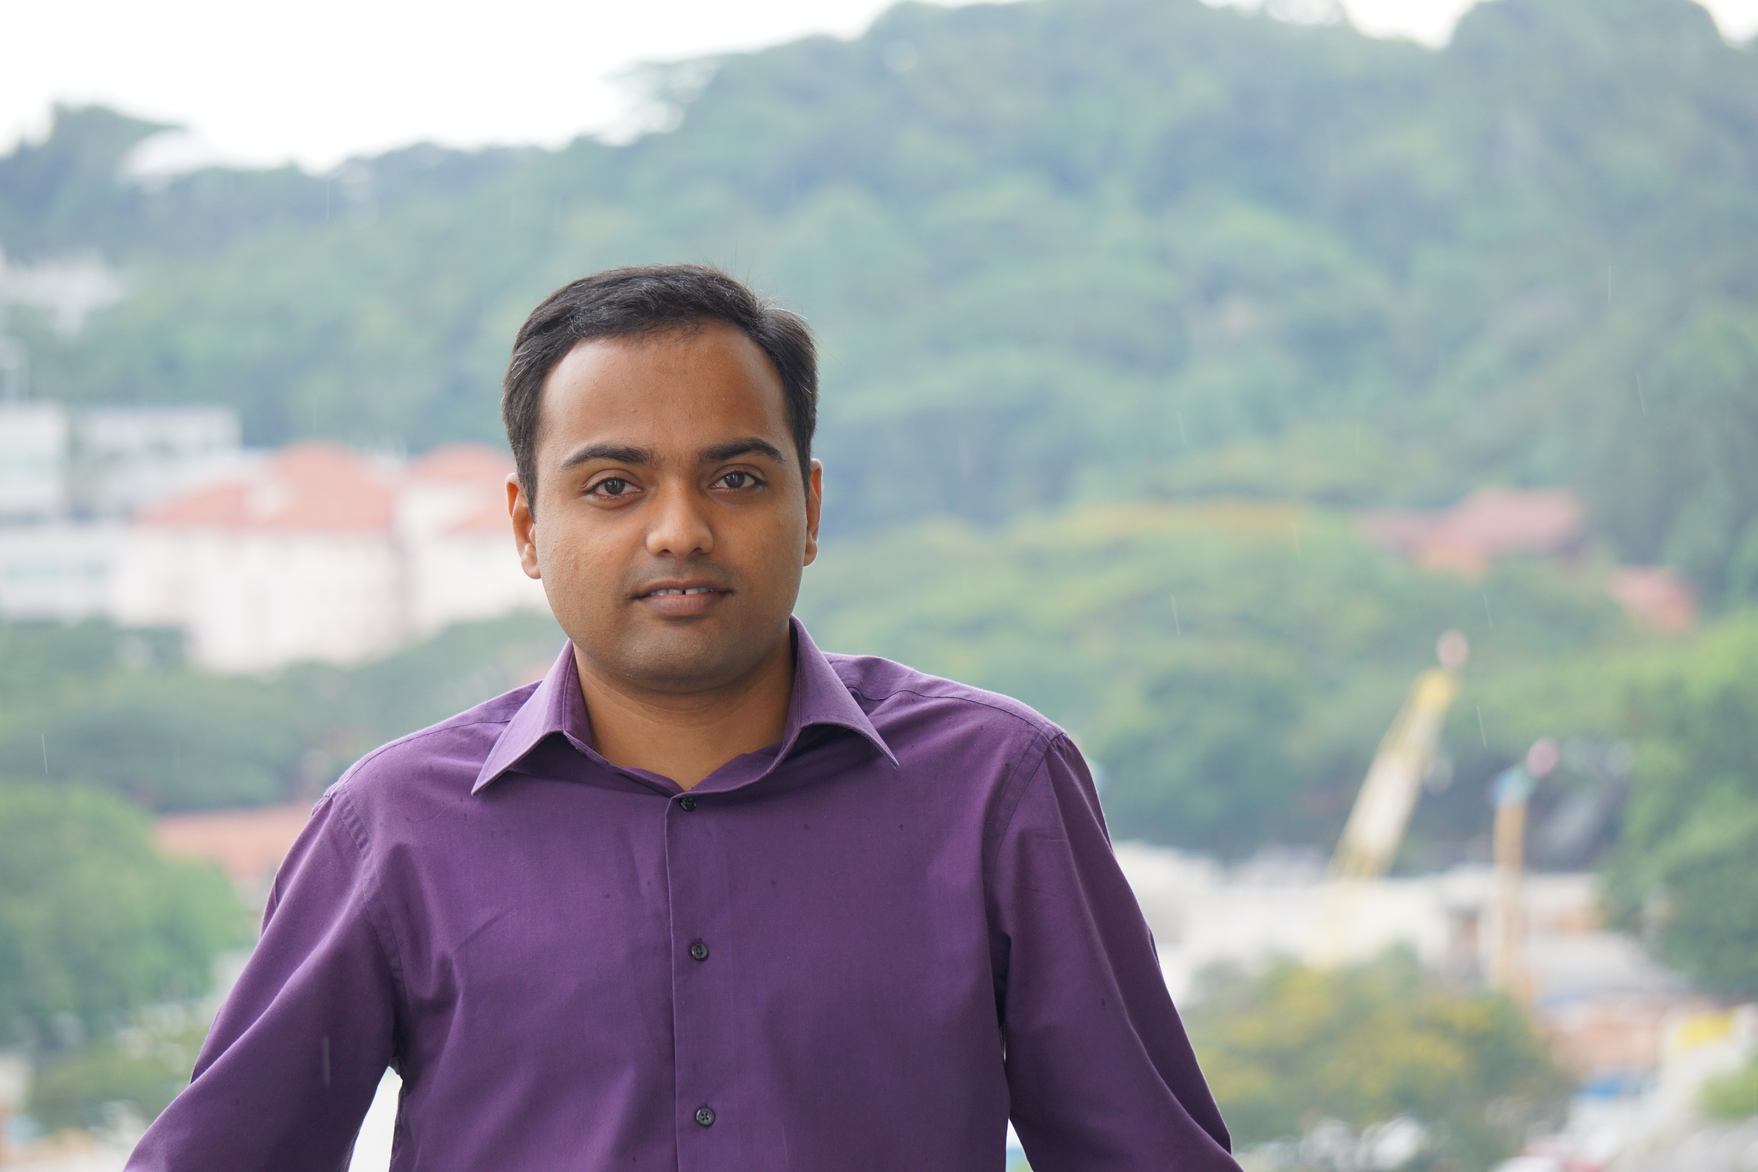
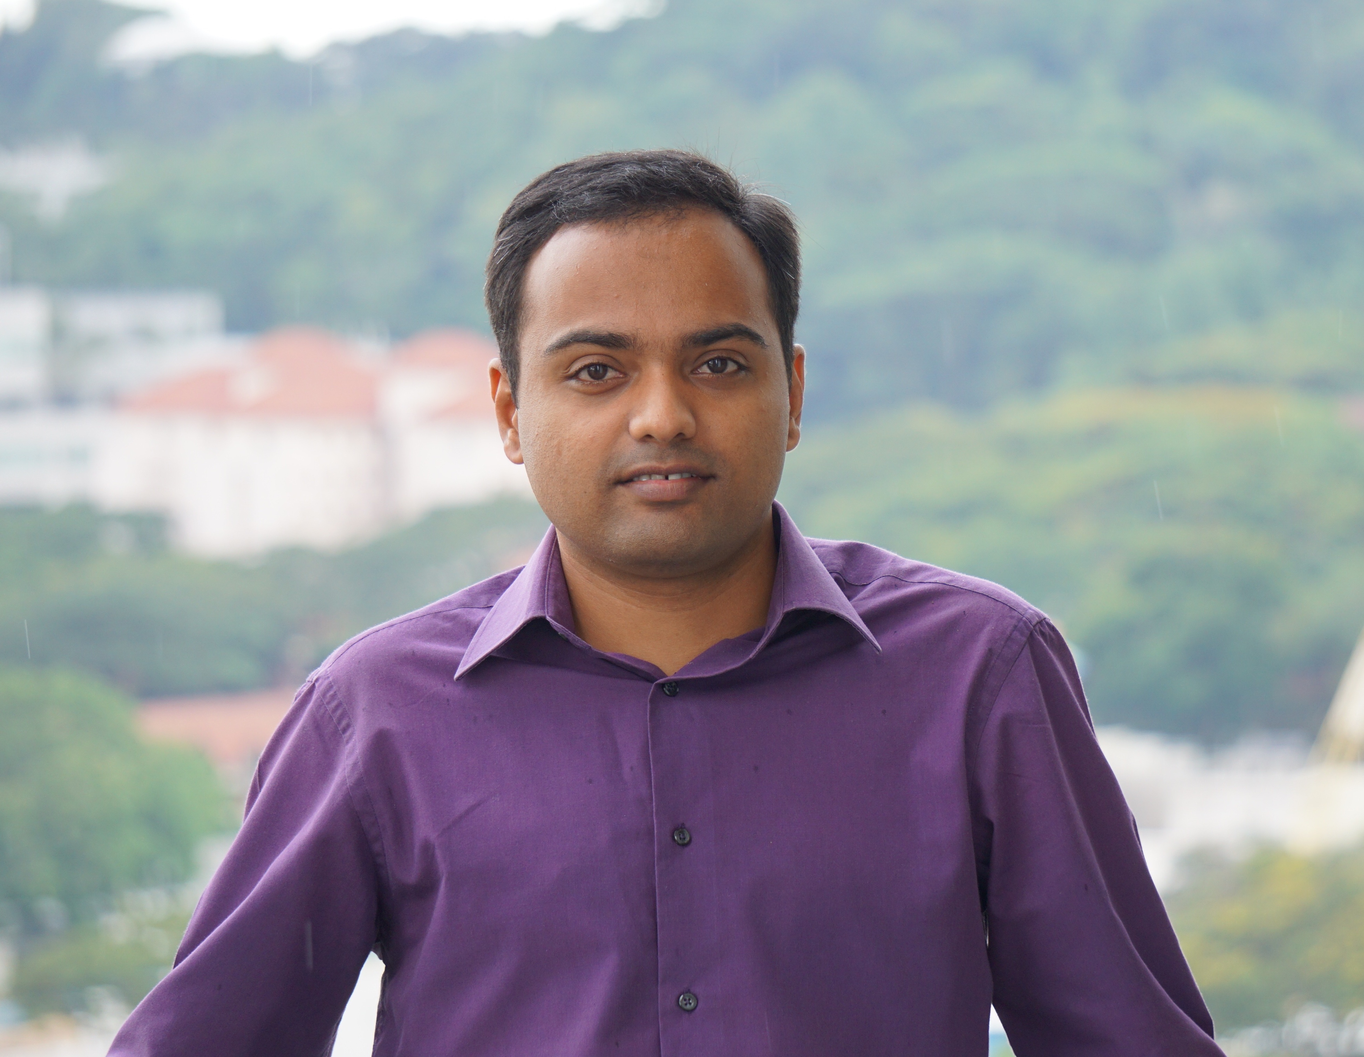
Updated exec page with Joanna and Ajinkya's info
Changed placement of photos

diff --git a/output/executive/index.html b/output/executive/index.html
@@ -12,13 +12,13 @@
 <link rel="canonical" href="/executive">
 
         <meta name="author" content="MIT Transportation Club" />
-        <meta name="description" content="President: Joanna Moody Joanna Moody &lt;jcmoody at mit dot edu&gt; is a fourth year Ph.D. candidate in the Interdisciplinary Program in Transportation. As a member of the JTL Urban Mobility Lab, Joanna explores how implicit or subconscious biases and preferences related to car usage and ownership can influence travel …" />
+        <meta name="description" content="President: Joanna Moody Joanna Moody &lt;jcmoody at mit dot edu&gt; is a fourth year Ph.D. candidate in the Interdisciplinary Program in Transportation. As a member of the JTL Urban Mobility Lab, Joanna explores how to better measure people’s explicit and implicit (or subconscious) preferences and attitudes towards certain …" />
 
     <meta property="og:site_name" content="MIT Transportation Club" />
     <meta property="og:type" content="article"/>
     <meta property="og:title" content="Executive Board"/>
     <meta property="og:url" content="/executive"/>
-    <meta property="og:description" content="President: Joanna Moody Joanna Moody &lt;jcmoody at mit dot edu&gt; is a fourth year Ph.D. candidate in the Interdisciplinary Program in Transportation. As a member of the JTL Urban Mobility Lab, Joanna explores how implicit or subconscious biases and preferences related to car usage and ownership can influence travel …" />
+    <meta property="og:description" content="President: Joanna Moody Joanna Moody &lt;jcmoody at mit dot edu&gt; is a fourth year Ph.D. candidate in the Interdisciplinary Program in Transportation. As a member of the JTL Urban Mobility Lab, Joanna explores how to better measure people’s explicit and implicit (or subconscious) preferences and attitudes towards certain …" />
 
 
     <!-- Bootstrap -->
@@ -75,20 +75,34 @@ MIT Transportation Club            </a>
         
         <div class="entry-content">
             <h2>President: Joanna Moody</h2>
-<p><strong>Joanna Moody</strong> &lt;<a href="mailto:jcmoody@MIT.EDU">jcmoody at mit dot edu</a>&gt; is a fourth year Ph.D. candidate in the Interdisciplinary Program in Transportation. As a member of the <a href="https://mobility.mit.edu" target="_blank">JTL Urban Mobility Lab</a>, Joanna explores how implicit or subconscious biases and preferences related to car usage and ownership can influence travel behavior and impact transportation planning and operations. Also as a member of the <a href="http://web.mit.edu/hsr-group/" target="_blank">Regional Transportation and High Speed Rail Group</a>, Joanna works in collaboration with the East Japan Railway Company researching international high-speed rail developments as complex socio-technical systems, with a particular interest in how the technology and infrastructure interface with governing and managing institutions and users. At MIT, Joanna has received both a USDOT University Transportation Funding Center Fellowship (2014) and the U.S. Department of Transportation FHWA Eisenhower Graduate Fellowship (2015 and 2016). She has served as the Transportation Club VP, Transportation Showcase and as the coordinator for the MIT Center for Transportation and Logistics lecture series for the past three years. She holds a Masters of Science in Transportation degree from MIT as well as Bachelors degrees in Mathematics, Physics, and Japanese from Bates College.</p>
+<p><div style="min-height: 220px">
+<img class="exec_pic" style="object-fit: cover; width: 200px; height: 200px; border-radius: 50%; float: right; margin: 0px 20px 20px 20px" src="/image/board/17-18/Joanna_Moody.jpeg">
+<strong>Joanna Moody</strong> &lt;<a href="mailto:jcmoody@MIT.EDU">jcmoody at mit dot edu</a>&gt; is a fourth year Ph.D. candidate in the Interdisciplinary Program in Transportation. As a member of the <a href="https://mobility.mit.edu/">JTL Urban Mobility Lab</a>, Joanna explores how to better measure people’s explicit and implicit (or subconscious) preferences and attitudes towards certain travel modes and how they influence travel behavior and impact transportation planning and operations. As a member of the <a href="http://web.mit.edu/hsr-group/">Regional Transportation and High Speed Rail Group</a> during her first three years at MIT, Joanna worked in collaboration with the East Japan Railway Company to understand international high-speed rail developments as complex socio-technical systems, with a particular interest in how the technology and infrastructure interface with the diverse objectives of governing and managing institutions. This research formed the basis of her masters thesis entitled “Development of a Predictive Coalition Building Analysis for Stakeholders of Sociotechnical Systems,” which was awarded the Council for University Transportation Centers’ Charley V. Wootan Memorial Award for outstanding Masters Thesis in Policy and Planning (2016). While a graduate student at MIT, Joanna also received a USDOT University Transportation Funding Center Fellowship (2014), the U.S. Department of Transportation FHWA Eisenhower Graduate Fellowship (2015 and 2016), and the Lee Schipper Memorial Scholarship for Sustainable Transport and Energy Efficiency (2017). She has served as the Transportation Club Co-President (AY 2016-2017), Transportation Showcase Co-Coordinator (2015, 2016, 2017), and as the coordinator for the MIT Center for Transportation and Logistics lecture series (2015 and 2016). She holds a Masters of Science in Transportation degree from MIT as well as a Bachelors degree in Mathematics, Physics, and Japanese from Bates College.
+</div></p>
 <h2>Treasurer: Laura Krull</h2>
-<p><strong>Laura Krull</strong> &lt;<a href="mailto:lkrull@MIT.EDU">lkrull at mit dot edu</a>&gt;</p>
+<p><div style="min-height: 20px">
+<strong>Laura Krull</strong> &lt;<a href="mailto:lkrull@MIT.EDU">lkrull at mit dot edu</a>&gt;
+</div></p>
 <h2>Vice President, Transportation Showcase: André Snoeck</h2>
-<p><img class="exec_pic" style="object-fit: cover; width: 200px; height: 200px; border-radius: 50%; margin-left: 5%;" src="/image/board/17-18/Andre_Snoeck.jpg"></p>
-<p><strong>André Snoeck</strong> &lt;<a href="mailto:asnoeck@MIT.EDU">asnoeck at mit dot edu</a>&gt; is a research assistant and Ph.D. candidate in the <a href="http://megacitylab.mit.edu" target="_blank">Megacity Logistics Lab</a> at the MIT Center for Transportation and Logistics. His research focuses on the last mile of urban freight transportation and he conducts various products in cooperation with companies such as Coca-Cola, FEMSA, and AB InBev. Before coming to MIT, he received both his Bachelor's and Master's in Industrial Engineering at Eindhoven University of Technology in the Netherlands with a specialization in Operations Management and Logistics. In between, he co-founded <a href="http://www.solarteameindhoven.nl/">Solar Team Eindhoven</a> to develop Stella, the world's first solar-powered family car to show the world what the future of transportation looks like. The team won the 2013 Bridgestone World Solar Challenge, followed by the award for <a href="https://techcrunch.com/events/8th-annual-crunchies-awards/winners/" target="_blank">Best Technology Achievement</a> at the annual Silicon Valley Crunchie awards in 2015, beating Apple Pay and SpaceX.</p>
+<p><div style="min-height: 220px">
+<img class="exec_pic" style="object-fit: cover; width: 200px; height: 200px; border-radius: 50%; float: right; margin: 0px 20px 20px 20px" src="/image/board/17-18/Andre_Snoeck.jpg"></p>
+<p><strong>André Snoeck</strong> &lt;<a href="mailto:asnoeck@MIT.EDU">asnoeck at mit dot edu</a>&gt; is a research assistant and Ph.D. candidate in the <a href="http://megacitylab.mit.edu" target="_blank">Megacity Logistics Lab</a> at the MIT Center for Transportation and Logistics. His research focuses on the last mile of urban freight transportation and he conducts various products in cooperation with companies such as Coca-Cola, FEMSA, and AB InBev. Before coming to MIT, he received both his Bachelor's and Master's in Industrial Engineering at Eindhoven University of Technology in the Netherlands with a specialization in Operations Management and Logistics. In between, he co-founded <a href="http://www.solarteameindhoven.nl/">Solar Team Eindhoven</a> to develop Stella, the world's first solar-powered family car to show the world what the future of transportation looks like. The team won the 2013 Bridgestone World Solar Challenge, followed by the award for <a href="https://techcrunch.com/events/8th-annual-crunchies-awards/winners/" target="_blank">Best Technology Achievement</a> at the annual Silicon Valley Crunchie awards in 2015, beating Apple Pay and SpaceX.
+</div></p>
 <h2>Vice President, Transportation Showcase: Adham Kalila</h2>
-<p><img class="exec_pic" style="object-fit: cover; width: 200px; height: 200px; border-radius: 50%; margin-left: 5%;" src="/image/board/17-18/Adham_Kalila.jpeg"></p>
-<p><strong>Adham Kalila</strong> &lt;<a href="mailto:kalila@@MIT.EDU">kalila at mit dot edu</a>&gt; is a second year master of science in transportation student. His love for transit grew after a failed attempt at studying geotechnical and structural engineering at McGill. His passion for cities meets his love for transit in <a href="http://transportforcairo.com/" target="_blank">Transport for Cairo</a>, a project he cofounded to map and research informal transportation in Cairo, Egypt where he grew up. He loves to cook, read, travel, and silently (or outwardly) judge people for incorrect grammar. You’ll love him. </p>
+<p><div style="min-height: 200px;">
+<img class="exec_pic" style="object-fit: cover; width: 200px; height: 200px; border-radius: 50%; float: right; margin: 0px 20px 20px 20px" src="/image/board/17-18/Adham_Kalila.jpeg"></p>
+<p><strong>Adham Kalila</strong> &lt;<a href="mailto:kalila@@MIT.EDU">kalila at mit dot edu</a>&gt; is a second year master of science in transportation student. His love for transit grew after a failed attempt at studying geotechnical and structural engineering at McGill. His passion for cities meets his love for transit in <a href="http://transportforcairo.com/" target="_blank">Transport for Cairo</a>, a project he cofounded to map and research informal transportation in Cairo, Egypt where he grew up. He loves to cook, read, travel, and silently (or outwardly) judge people for incorrect grammar. You’ll love him. 
+</div></p>
 <h2>Social Chair: Ajinkya Ghorpade</h2>
-<p><strong>Ajinkya Ghorpade</strong> &lt;<a href="mailto:ajinkya@MIT.EDU">ajinkya at mit dot edu</a>&gt;</p>
+<p><div style="min-height: 200px;">
+<img class="exec_pic" style="object-fit: cover; width: 200px; height: 200px; border-radius: 50%; float: right; margin: 0px 20px 20px 20px" src="/image/board/17-18/Ajinkya_Ghorpade.jpg">
+<strong>Ajinkya Ghorpade</strong> &lt;<a href="mailto:ajinkya@MIT.EDU">ajinkya at mit dot edu</a>&gt; is a student in the Master of Science in Transportation program at MIT. His research interests include using data driven learning approaches to build mobility solutions to observe and understand the human mobility patterns. Before starting at MIT, he worked with Singapore-MIT Alliance for Research and Technology (SMART) in Singapore. He enjoys programming and teaming up with awesome developers to compete in hackathons.
+</div></p>
 <h2>Website &amp; Media: Sharlene Chiu</h2>
-<p><img class="exec_pic" style="object-fit: cover; width: 200px; height: 200px; border-radius: 50%; margin-left: 5%;" src="/image/board/17-18/Sharlene_Chiu.jpg"></p>
-<p><strong>Sharlene Chiu</strong> &lt;<a href="mailto:sharc@MIT.EDU">sharc at mit dot edu</a>&gt; is a third-year undergraduate student pursuing a Bachelor of Science degree in Electrical Engineering and Computer Science. She first became dazzled by transportation when she worked as a research assistant for the <a href="http://senseable.mit.edu" target="_blank">Senseable City Lab</a>. Her initial project aimed to reduce traffic congestion and carbon emissions by developing a system that detects vehicles and adjusts traffic signals in real time. Currently, she's participating in the SuperUROP program, a year-long research commitment for undergraduates. Sharlene is working with the <a href="https://its.mit.edu" target="_blank">Intelligent Transportation Systems Lab</a> on a project called <a href="https://its.mit.edu/mobility-future" target="_blank">Mobility of the Future</a>, for which she will leverage her EECS background to analyze simulations and gain insight into the courses of action that cities should take to achieve positive change in traffic, emissions, and so forth.</p>
+<p><div style="min-height: 220px;">
+<img class="exec_pic" style="object-fit: cover; width: 200px; height: 200px; border-radius: 50%; float: right; margin: 0px 20px 20px 20px" src="/image/board/17-18/Sharlene_Chiu.jpg"></p>
+<p><strong>Sharlene Chiu</strong> &lt;<a href="mailto:sharc@MIT.EDU">sharc at mit dot edu</a>&gt; is a third-year undergraduate student pursuing a Bachelor of Science degree in Electrical Engineering and Computer Science. She first became dazzled by transportation when she worked as a research assistant for the <a href="http://senseable.mit.edu" target="_blank">Senseable City Lab</a>. Her initial project aimed to reduce traffic congestion and carbon emissions by developing a system that detects vehicles and adjusts traffic signals in real time. Currently, she's participating in the SuperUROP program, a year-long research commitment for undergraduates. Sharlene is working with the <a href="https://its.mit.edu" target="_blank">Intelligent Transportation Systems Lab</a> on a project called <a href="https://its.mit.edu/mobility-future" target="_blank">Mobility of the Future</a>, for which she will leverage her EECS background to analyze simulations and gain insight into the courses of action that cities should take to achieve positive change in traffic, emissions, and so forth.
+</div></p>
 <h2>Previous Executive Boards</h2>
 <h3>2016-2017</h3>
 <ul>

diff --git a/content/extra/custom.css b/content/extra/custom.css
@@ -1,7 +1,6 @@
 h2 {
 /* MIT red, for a splash of colour… */
-  /*color: #A80532;*/
-  color: black;
+  color: #A80532;
 }
 
 .center {

diff --git a/output/static/custom.css b/output/static/custom.css
@@ -1,7 +1,6 @@
 h2 {
 /* MIT red, for a splash of colour… */
-  /*color: #A80532;*/
-  color: black;
+  color: #A80532;
 }
 
 .center {

diff --git a/content/pages/executive.md b/content/pages/executive.md
@@ -1,34 +1,43 @@
 Title: Executive Board
 slug: executive
 
-
 ## President: Joanna Moody
-
-**Joanna Moody** <[jcmoody at mit dot edu](mailto:jcmoody@MIT.EDU)> is a fourth year Ph.D. candidate in the Interdisciplinary Program in Transportation. As a member of the <a href="https://mobility.mit.edu" target="_blank">JTL Urban Mobility Lab</a>, Joanna explores how implicit or subconscious biases and preferences related to car usage and ownership can influence travel behavior and impact transportation planning and operations. Also as a member of the <a href="http://web.mit.edu/hsr-group/" target="_blank">Regional Transportation and High Speed Rail Group</a>, Joanna works in collaboration with the East Japan Railway Company researching international high-speed rail developments as complex socio-technical systems, with a particular interest in how the technology and infrastructure interface with governing and managing institutions and users. At MIT, Joanna has received both a USDOT University Transportation Funding Center Fellowship (2014) and the U.S. Department of Transportation FHWA Eisenhower Graduate Fellowship (2015 and 2016). She has served as the Transportation Club VP, Transportation Showcase and as the coordinator for the MIT Center for Transportation and Logistics lecture series for the past three years. She holds a Masters of Science in Transportation degree from MIT as well as Bachelors degrees in Mathematics, Physics, and Japanese from Bates College.
+<div style="min-height: 220px">
+<img class="exec_pic" style="object-fit: cover; width: 200px; height: 200px; border-radius: 50%; float: right; margin: 0px 20px 20px 20px" src="/image/board/17-18/Joanna_Moody.jpeg">
+**Joanna Moody** <[jcmoody at mit dot edu](mailto:jcmoody@MIT.EDU)> is a fourth year Ph.D. candidate in the Interdisciplinary Program in Transportation. As a member of the <a href="https://mobility.mit.edu/">JTL Urban Mobility Lab</a>, Joanna explores how to better measure people’s explicit and implicit (or subconscious) preferences and attitudes towards certain travel modes and how they influence travel behavior and impact transportation planning and operations. As a member of the <a href="http://web.mit.edu/hsr-group/">Regional Transportation and High Speed Rail Group</a> during her first three years at MIT, Joanna worked in collaboration with the East Japan Railway Company to understand international high-speed rail developments as complex socio-technical systems, with a particular interest in how the technology and infrastructure interface with the diverse objectives of governing and managing institutions. This research formed the basis of her masters thesis entitled “Development of a Predictive Coalition Building Analysis for Stakeholders of Sociotechnical Systems,” which was awarded the Council for University Transportation Centers’ Charley V. Wootan Memorial Award for outstanding Masters Thesis in Policy and Planning (2016). While a graduate student at MIT, Joanna also received a USDOT University Transportation Funding Center Fellowship (2014), the U.S. Department of Transportation FHWA Eisenhower Graduate Fellowship (2015 and 2016), and the Lee Schipper Memorial Scholarship for Sustainable Transport and Energy Efficiency (2017). She has served as the Transportation Club Co-President (AY 2016-2017), Transportation Showcase Co-Coordinator (2015, 2016, 2017), and as the coordinator for the MIT Center for Transportation and Logistics lecture series (2015 and 2016). She holds a Masters of Science in Transportation degree from MIT as well as a Bachelors degree in Mathematics, Physics, and Japanese from Bates College.
+</div>
 
 ## Treasurer: Laura Krull
-
+<div style="min-height: 20px">
 **Laura Krull** <[lkrull at mit dot edu](mailto:lkrull@MIT.EDU)>
+</div>
 
 ## Vice President, Transportation Showcase: André Snoeck
-<img class="exec_pic" style="object-fit: cover; width: 200px; height: 200px; border-radius: 50%; margin-left: 5%;" src="/image/board/17-18/Andre_Snoeck.jpg">
+<div style="min-height: 220px">
+<img class="exec_pic" style="object-fit: cover; width: 200px; height: 200px; border-radius: 50%; float: right; margin: 0px 20px 20px 20px" src="/image/board/17-18/Andre_Snoeck.jpg">
 
 **André Snoeck** <[asnoeck at mit dot edu](mailto:asnoeck@MIT.EDU)> is a research assistant and Ph.D. candidate in the <a href="http://megacitylab.mit.edu" target="_blank">Megacity Logistics Lab</a> at the MIT Center for Transportation and Logistics. His research focuses on the last mile of urban freight transportation and he conducts various products in cooperation with companies such as Coca-Cola, FEMSA, and AB InBev. Before coming to MIT, he received both his Bachelor's and Master's in Industrial Engineering at Eindhoven University of Technology in the Netherlands with a specialization in Operations Management and Logistics. In between, he co-founded <a href="http://www.solarteameindhoven.nl/">Solar Team Eindhoven</a> to develop Stella, the world's first solar-powered family car to show the world what the future of transportation looks like. The team won the 2013 Bridgestone World Solar Challenge, followed by the award for <a href="https://techcrunch.com/events/8th-annual-crunchies-awards/winners/" target="_blank">Best Technology Achievement</a> at the annual Silicon Valley Crunchie awards in 2015, beating Apple Pay and SpaceX.
+</div>
 
 ## Vice President, Transportation Showcase: Adham Kalila
-<img class="exec_pic" style="object-fit: cover; width: 200px; height: 200px; border-radius: 50%; margin-left: 5%;" src="/image/board/17-18/Adham_Kalila.jpeg">
+<div style="min-height: 200px;">
+<img class="exec_pic" style="object-fit: cover; width: 200px; height: 200px; border-radius: 50%; float: right; margin: 0px 20px 20px 20px" src="/image/board/17-18/Adham_Kalila.jpeg">
 
 **Adham Kalila** <[kalila at mit dot edu](mailto:kalila@@MIT.EDU)> is a second year master of science in transportation student. His love for transit grew after a failed attempt at studying geotechnical and structural engineering at McGill. His passion for cities meets his love for transit in <a href="http://transportforcairo.com/" target="_blank">Transport for Cairo</a>, a project he cofounded to map and research informal transportation in Cairo, Egypt where he grew up. He loves to cook, read, travel, and silently (or outwardly) judge people for incorrect grammar. You’ll love him. 
+</div>
 
 ## Social Chair: Ajinkya Ghorpade
-
-**Ajinkya Ghorpade** <[ajinkya at mit dot edu](mailto:ajinkya@MIT.EDU)>
+<div style="min-height: 200px;">
+<img class="exec_pic" style="object-fit: cover; width: 200px; height: 200px; border-radius: 50%; float: right; margin: 0px 20px 20px 20px" src="/image/board/17-18/Ajinkya_Ghorpade.jpg">
+**Ajinkya Ghorpade** <[ajinkya at mit dot edu](mailto:ajinkya@MIT.EDU)> is a student in the Master of Science in Transportation program at MIT. His research interests include using data driven learning approaches to build mobility solutions to observe and understand the human mobility patterns. Before starting at MIT, he worked with Singapore-MIT Alliance for Research and Technology (SMART) in Singapore. He enjoys programming and teaming up with awesome developers to compete in hackathons.
+</div>
 
 ## Website & Media: Sharlene Chiu
-<img class="exec_pic" style="object-fit: cover; width: 200px; height: 200px; border-radius: 50%; margin-left: 5%;" src="/image/board/17-18/Sharlene_Chiu.jpg">
+<div style="min-height: 220px;">
+<img class="exec_pic" style="object-fit: cover; width: 200px; height: 200px; border-radius: 50%; float: right; margin: 0px 20px 20px 20px" src="/image/board/17-18/Sharlene_Chiu.jpg">
 
 **Sharlene Chiu** <[sharc at mit dot edu](mailto:sharc@MIT.EDU)> is a third-year undergraduate student pursuing a Bachelor of Science degree in Electrical Engineering and Computer Science. She first became dazzled by transportation when she worked as a research assistant for the <a href="http://senseable.mit.edu" target="_blank">Senseable City Lab</a>. Her initial project aimed to reduce traffic congestion and carbon emissions by developing a system that detects vehicles and adjusts traffic signals in real time. Currently, she's participating in the SuperUROP program, a year-long research commitment for undergraduates. Sharlene is working with the <a href="https://its.mit.edu" target="_blank">Intelligent Transportation Systems Lab</a> on a project called <a href="https://its.mit.edu/mobility-future" target="_blank">Mobility of the Future</a>, for which she will leverage her EECS background to analyze simulations and gain insight into the courses of action that cities should take to achieve positive change in traffic, emissions, and so forth.
-
+</div>
 ## Previous Executive Boards
 
 ### 2016-2017
